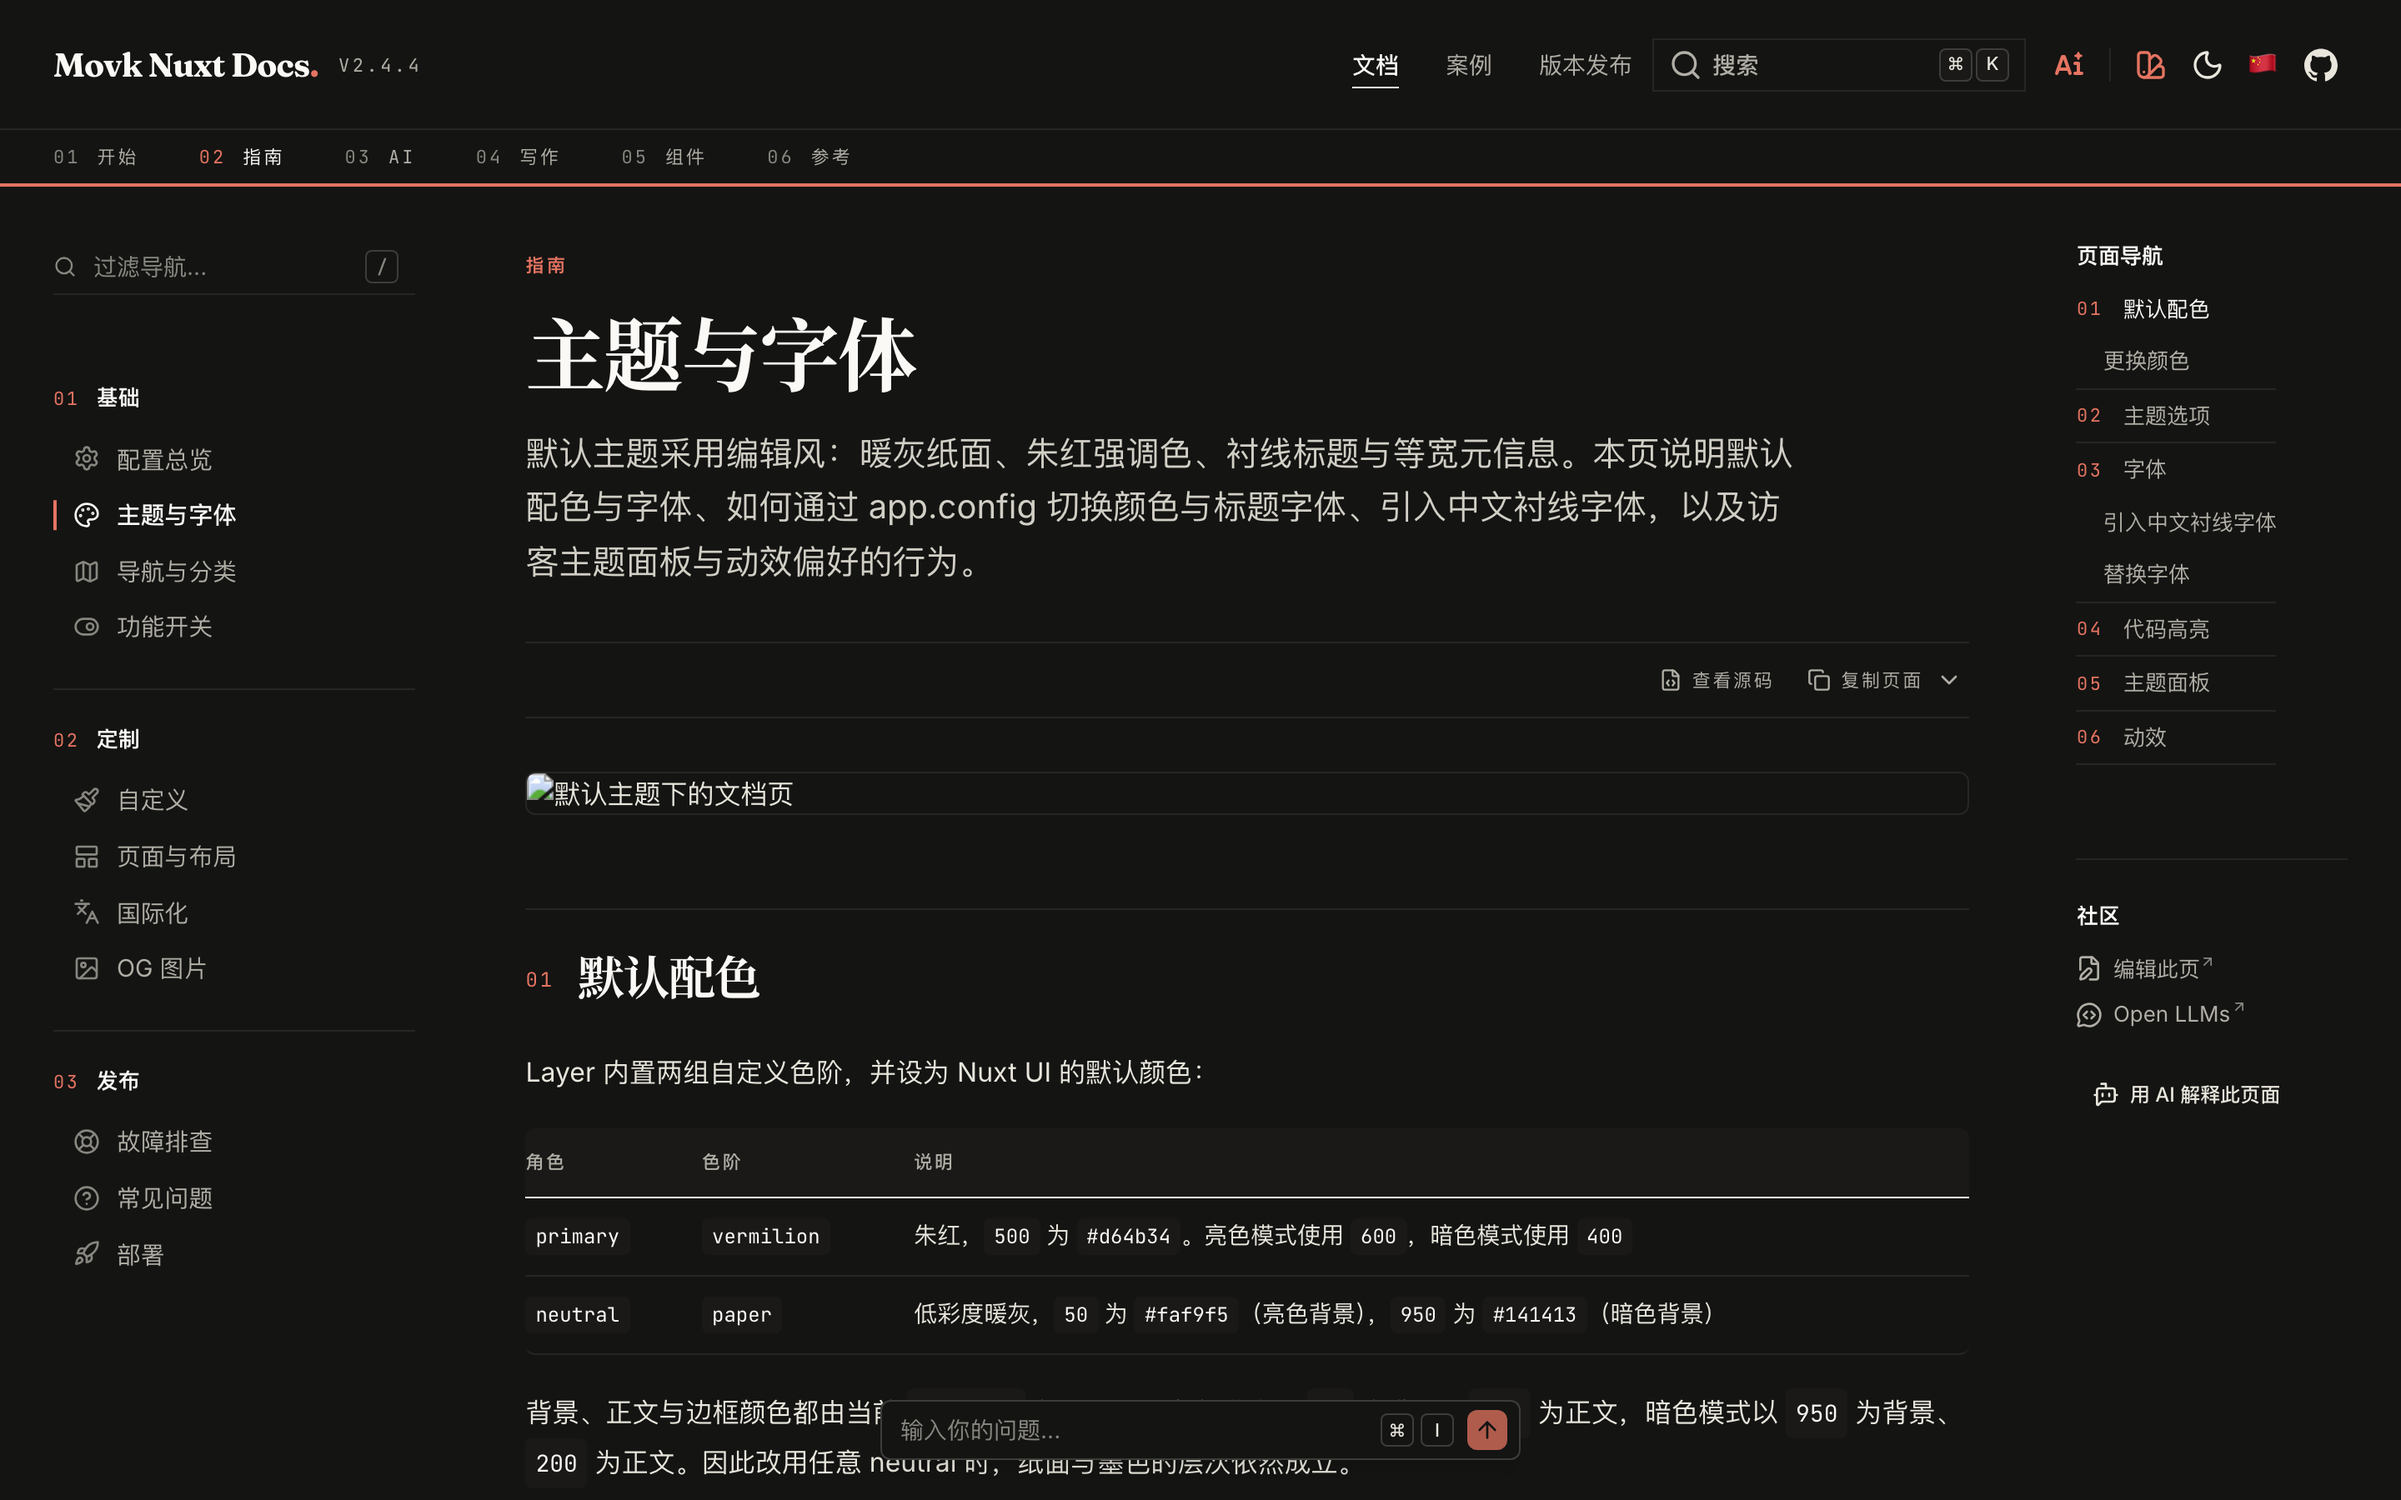
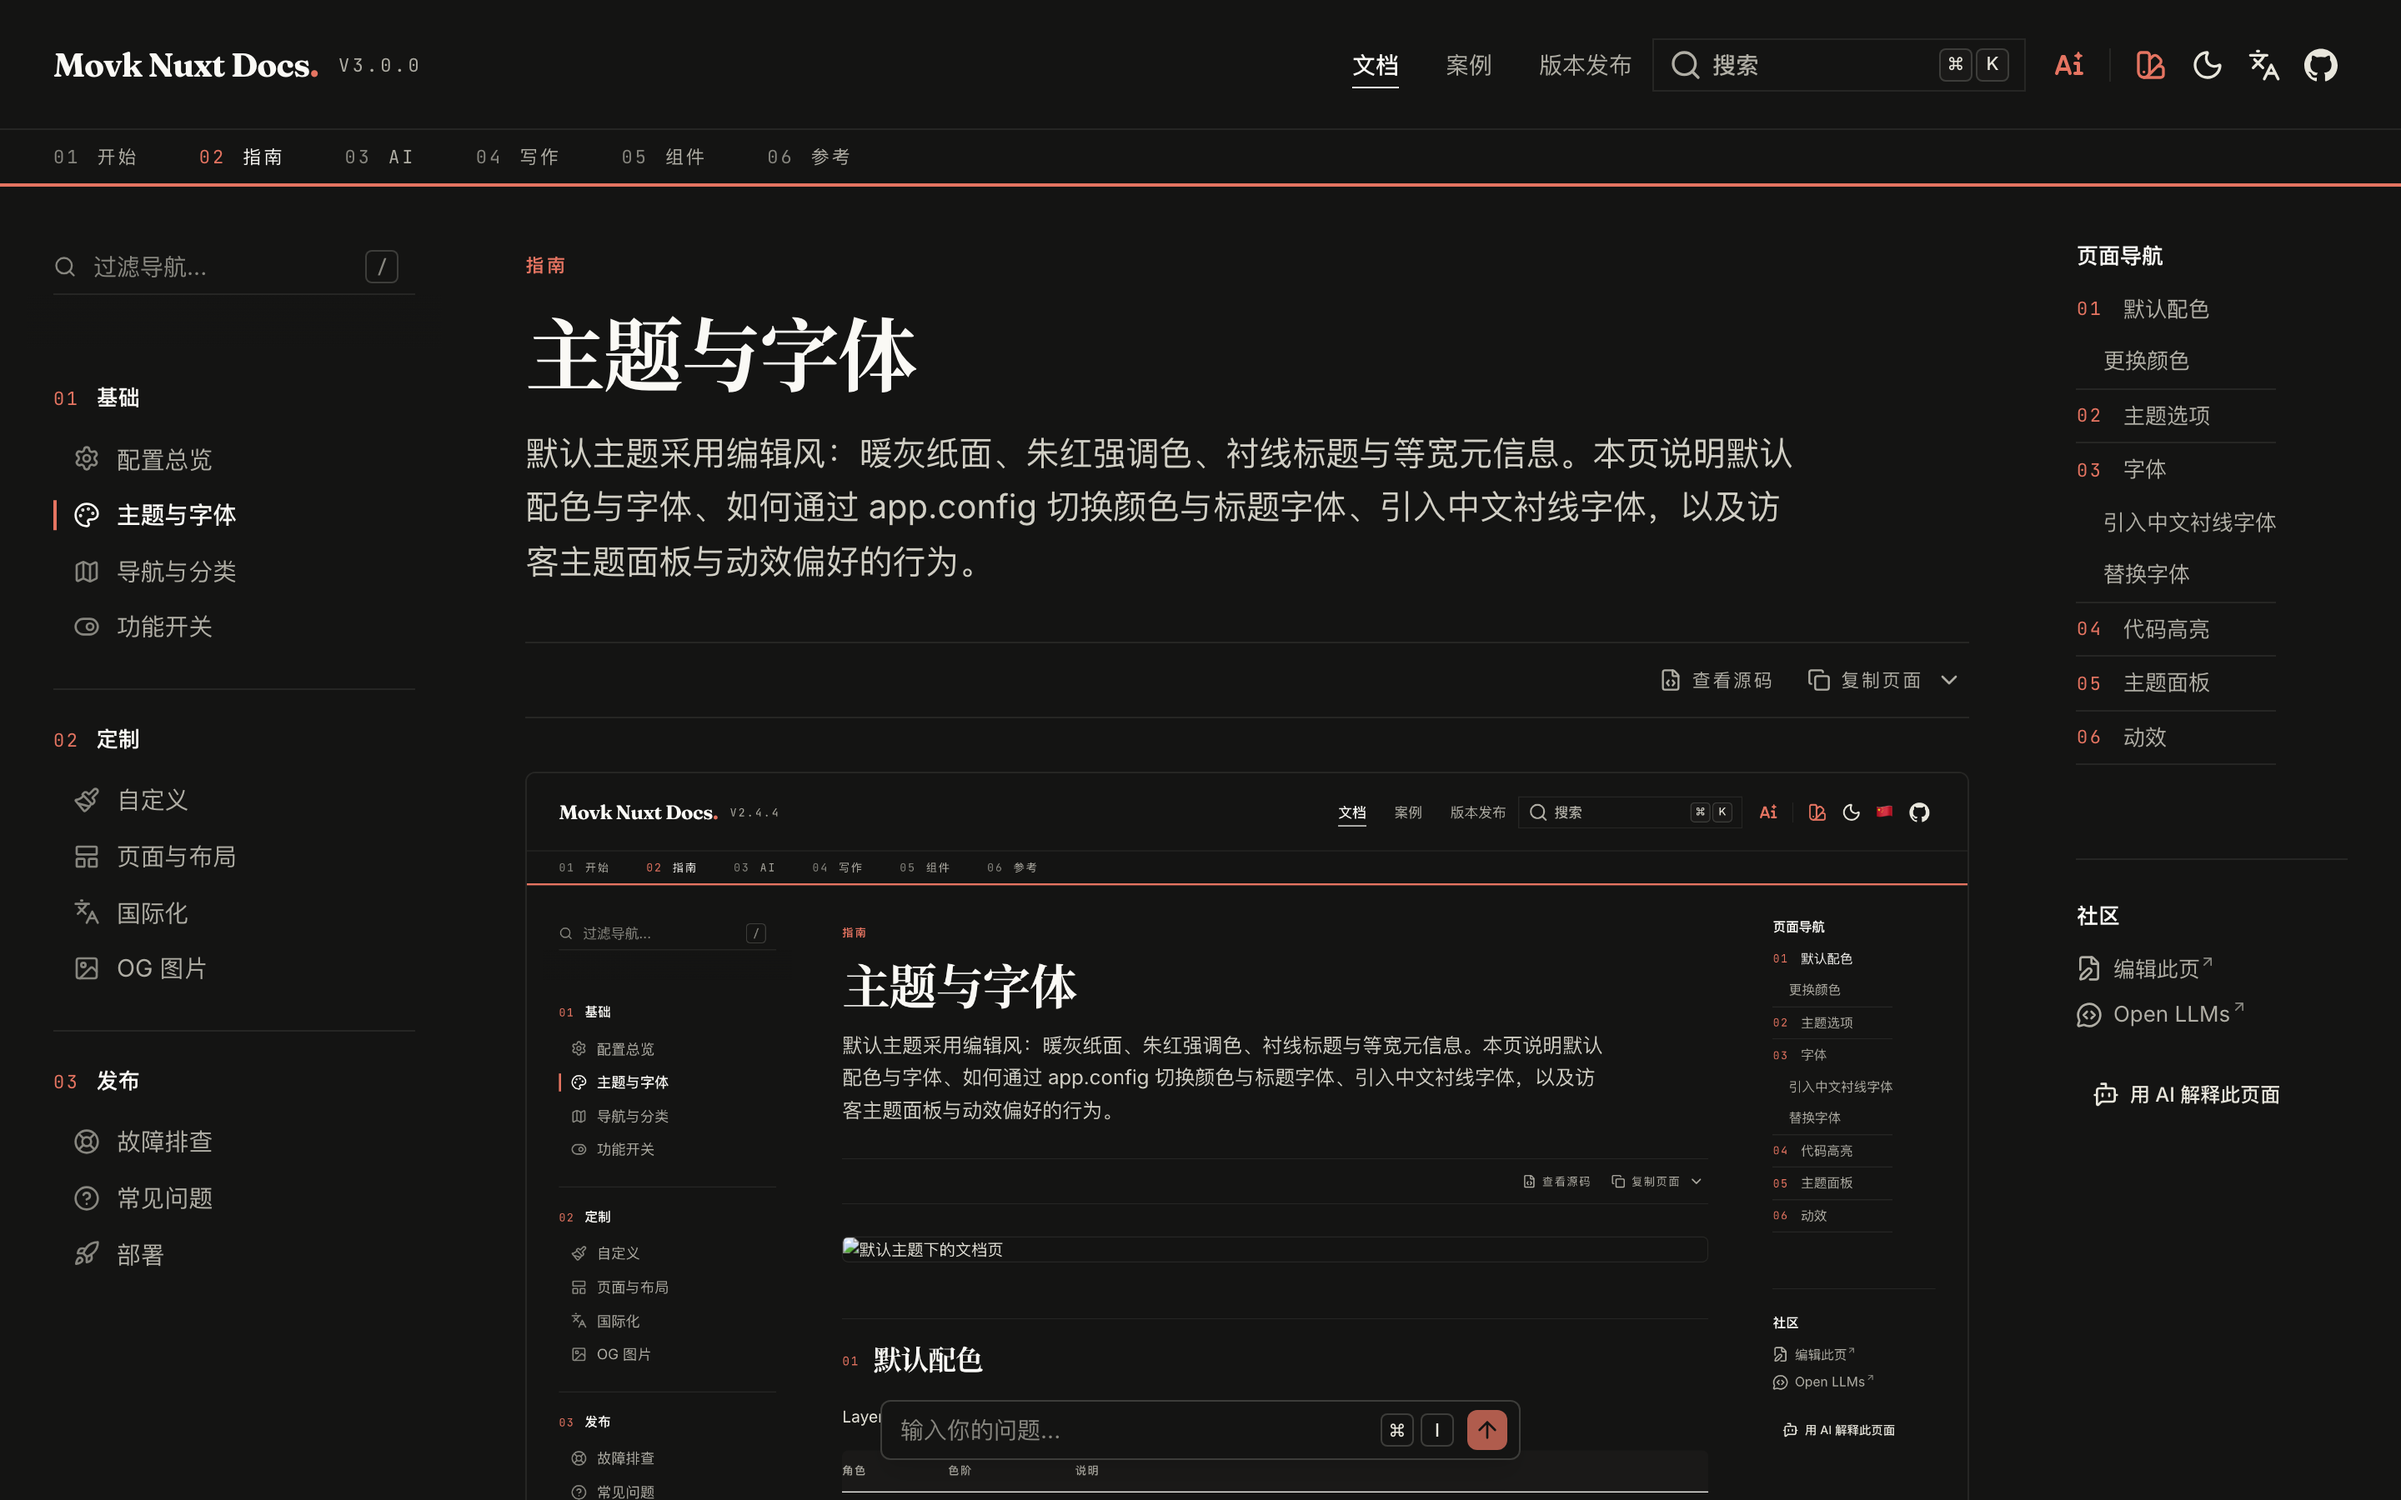
docs: 以 v3.0.0 版本号重新生成文档截图
截图脚本的语言切换器选择器改为无障碍标签。

diff --git a/scripts/screenshots/shots.ts b/scripts/screenshots/shots.ts
@@ -105,7 +105,7 @@ export const SHOTS: Shot[] = [
     setup: async page => page.evaluate(() => window.scrollTo(0, document.body.scrollHeight * 0.3)),
     selector: 'nav[aria-label="分类导航"]'
   },
-  { name: 'component-LanguageSwitcher', path: DOC, setup: click('header button:has-text("🇨🇳")'), selector: POPOVER },
+  { name: 'component-LanguageSwitcher', path: DOC, setup: click('header button[aria-label="切换语言"]'), selector: POPOVER },
   { name: 'component-ThemePicker', path: DOC, setup: click('button[aria-label="主题设置"]'), selector: POPOVER },
   {
     name: 'component-PageHeaderLinks',
